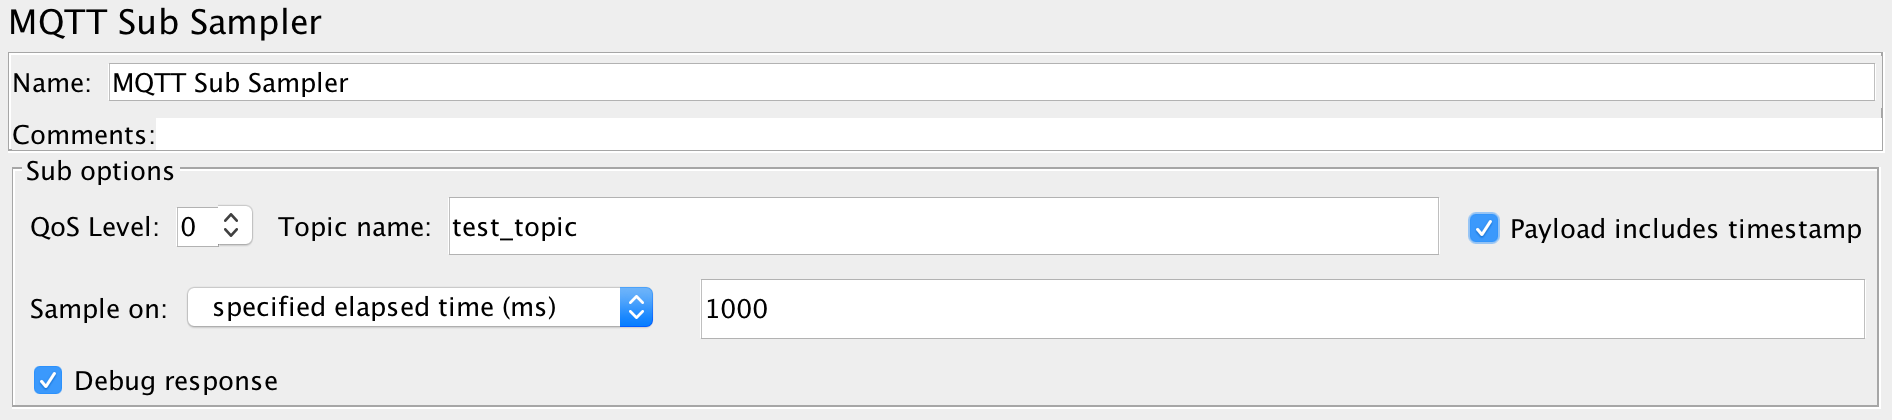
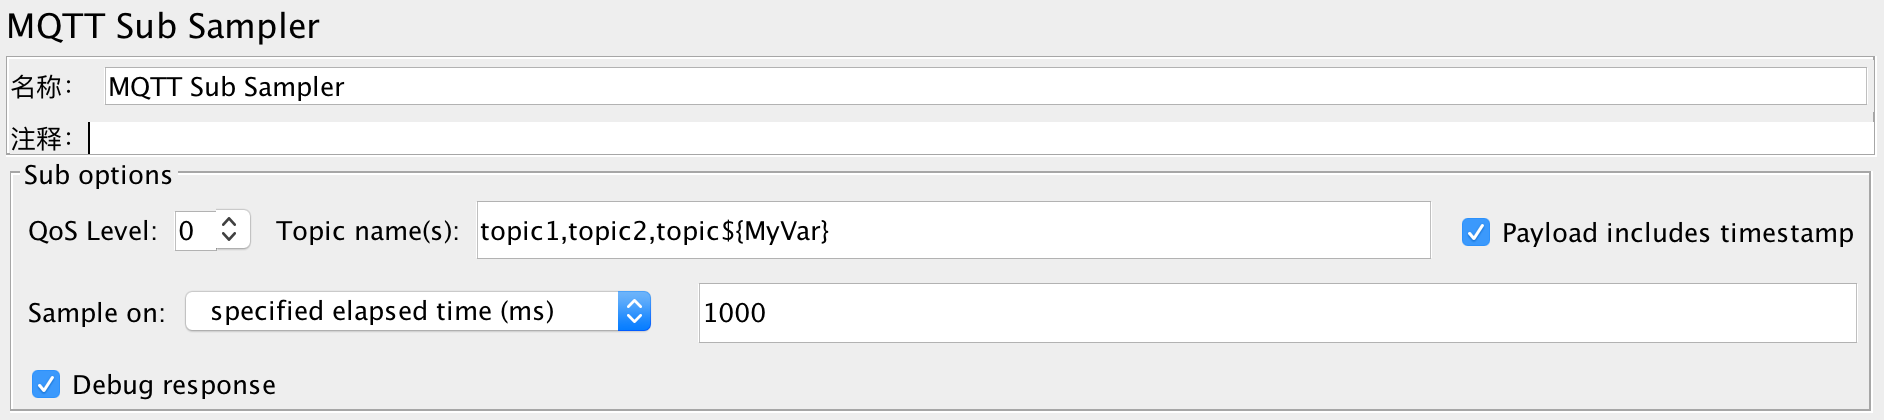
sub sampler supports topic list rather than single topic, update README.md

diff --git a/mqtt_jmeter/src/main/java/net/xmeter/gui/SubSamplerUI.java b/mqtt_jmeter/src/main/java/net/xmeter/gui/SubSamplerUI.java
@@ -27,7 +27,7 @@ public class SubSamplerUI extends AbstractSamplerGui implements Constants, Chang
 	private JLabeledChoice sampleOnCondition;
 	
 	private final JLabeledTextField sampleConditionValue = new JLabeledTextField("");
-	private final JLabeledTextField topicName = new JLabeledTextField("Topic name:");
+	private final JLabeledTextField topicNames = new JLabeledTextField("Topic name(s):");
 	
 	private JCheckBox debugResponse = new JCheckBox("Debug response");
 	private JCheckBox timestamp = new JCheckBox("Payload includes timestamp");
@@ -56,7 +56,8 @@ public class SubSamplerUI extends AbstractSamplerGui implements Constants, Chang
 
 		JPanel optsPanel1 = new HorizontalPanel();
 		optsPanel1.add(qosChoice);
-		optsPanel1.add(topicName);
+		optsPanel1.add(topicNames);
+		topicNames.setToolTipText("A list of topics to be subscribed to, comma-separated.");
 		optsPanel1.add(timestamp);
 		optsPanelCon.add(optsPanel1);
 		
@@ -98,7 +99,7 @@ public class SubSamplerUI extends AbstractSamplerGui implements Constants, Chang
 			this.qosChoice.setText(sampler.getQOS());
 		}
 		
-		this.topicName.setText(sampler.getTopics());
+		this.topicNames.setText(sampler.getTopics());
 		this.timestamp.setSelected(sampler.isAddTimestamp());
 		this.debugResponse.setSelected(sampler.isDebugResponse());
 		this.sampleOnCondition.setText(sampler.getSampleCondition());
@@ -123,7 +124,7 @@ public class SubSamplerUI extends AbstractSamplerGui implements Constants, Chang
 
 	private void setupSamplerProperties(SubSampler sampler) {
 		this.configureTestElement(sampler);
-		sampler.setTopics(this.topicName.getText());
+		sampler.setTopics(this.topicNames.getText());
 		
 		if(this.qosChoice.getText().indexOf(JMETER_VARIABLE_PREFIX) == -1) {
 			int qos = QOS_0;
@@ -156,7 +157,7 @@ public class SubSamplerUI extends AbstractSamplerGui implements Constants, Chang
 	@Override
 	public void clearGui() {
 		super.clearGui();
-		this.topicName.setText(DEFAULT_TOPIC_NAME);
+		this.topicNames.setText(DEFAULT_TOPIC_NAME);
 		this.qosChoice.setText(String.valueOf(QOS_0));
 		this.timestamp.setSelected(false);
 		this.debugResponse.setSelected(false);

diff --git a/mqtt_jmeter/src/main/java/net/xmeter/samplers/SubSampler.java b/mqtt_jmeter/src/main/java/net/xmeter/samplers/SubSampler.java
@@ -135,7 +135,7 @@ public class SubSampler extends AbstractMQTTSampler {
 		final int sampleCount = Integer.parseInt(getSampleCount());
 		final String topicsName= getTopics();
 		setListener(sampleByTime, sampleCount);
-		listenToTopics(topicsName);
+		listenToTopics(topicsName);  // TODO: run once or multiple times ?
 		
 		if (subFailed) {
 			result.sampleStart();

diff --git a/mqtt_jmeter/src/main/java/net/xmeter/samplers/PubSampler.java b/mqtt_jmeter/src/main/java/net/xmeter/samplers/PubSampler.java
@@ -170,7 +170,7 @@ public class PubSampler extends AbstractMQTTSampler {
 			result.setSuccessful(false);
 			result.setResponseMessage(MessageFormat.format("Publish failed for connection {0}.", connection));
 			result.setResponseData(ex.getMessage().getBytes());
-			result.setResponseCode("500");
+			result.setResponseCode("501");
 		}
 		return result;
 	}

diff --git a/mqtt_jmeter/src/main/java/net/xmeter/gui/PubSamplerUI.java b/mqtt_jmeter/src/main/java/net/xmeter/gui/PubSamplerUI.java
@@ -60,6 +60,7 @@ public class PubSamplerUI extends AbstractSamplerGui implements Constants, Chang
 		JPanel optsPanel = new HorizontalPanel();
 		optsPanel.add(qosChoice);
 		optsPanel.add(topicName);
+		topicName.setToolTipText("Name of topic that the message will be sent to.");
 		optsPanel.add(timestamp);
 		optsPanelCon.add(optsPanel);
 

diff --git a/README.md b/README.md
@@ -30,8 +30,7 @@ If MQTT JMeter plugin is successfully installed, you can find these MQTT sampler
 ![mqtt_jmeter_plugin](screenshots/mqtt_jmeter_plugin.png)
 
 
-## Connection sampler
-
+## Connect Sampler
 ![conn_sampler](screenshots/conn_sampler.png)
 
 ### MQTT connection
@@ -72,18 +71,19 @@ User can configure MQTT server with user name & password authentication, refer t
 
 - **Reconnect attampt max**:  The maximum number of reconnect attempts before an error is reported back to the client after a server connection had previously been established. Set to -1 to use unlimited attempts. Defaults to 0.
 
-## Pub sampler
+
+## Pub Sampler
 ![pub_sampler](screenshots/pub_sampler.png)
 
-Pub sampler reuses previously established connection (by Connect sampler) to publish a message. If connection is ready, this sampler will fail immediately.
+Pub sampler reuses previously established connection (by Connect sampler) to publish a message. If connection is not ready at this moment, pub sampler will just fail immediately.
 
 ### Pub options
 
 - **QoS level**: The available QoS value, 0 is AT_MOST_ONCE, 1 is AT_LEAST_ONCE and 2 is EXACTLY_ONCE.
 
-- **Topic name**: The topic name that the message will send to.
+- **Topic name**: Name of the topic that the message will be sent to.
 
-- **Add timestamp in payload**: Add timestamp in the payload or not. If the checkbox is enabled, then timestamp of running pub sampler will be added ahead of payload. Mostly it can be used together with **Sub sampler** to calculate message latency time.
+- **Add timestamp in payload**: Add timestamp in the payload or not. If the checkbox is enabled, then timestamp of running pub sampler will be added before real payload. Mostly it's used together with **Sub sampler** to calculate message latency time.
 
 ### Payloads
 
@@ -97,18 +97,17 @@ Pub sampler reuses previously established connection (by Connect sampler) to pub
 
 ![payload_setting](screenshots/payload_setting.png)
 
-## Sub sampler
+
+## Sub Sampler
 ![sub_sampler](screenshots/sub_sampler.png)
 
-For **MQTT connection**, **User authentication**,  **Connection options** and **MQTT version** section settings, please refer to *Connection sampler* for more detailed information.
-
-For **Share conn in thread**, please refer to the Pub sampler.
+Sub sampler reuses previously established connection (by Connect sampler) to subscribe message(s). If connection is not ready at this moment, sub sampler will just fail immediately.
 
 ### Sub options
 
 -  **QoS level**: The available QoS value, 0 is AT_MOST_ONCE, 1 is AT_LEAST_ONCE and 2 is EXACTLY_ONCE.
 
--  **Topic name**: The topic name that subscriber will subscribe to.
+-  **Topic name(s)**: A list of topic names (comma-separated) that will be subscribed to.
 
 -  **Payload includes timestamp**: If the checkbox is enabled, then it means the payload includes timestamp. It can be used to calcuate the message latency time.
 
@@ -118,9 +117,16 @@ message_latency = timestamp_in_sub_when_receive_msg - timestamp_in_payload (time
 Please notice, if the machine publish message is not the same as subscriber, then the calculated message latency time is not accurate. 
 It's because the time is almost not the same in different machines. So the latency time calculated by sub sampler could be only be a reference.
 ```
-- **Sample on**: It controls how to sample. The default value is '**elapsed with specified time(ms)**', which means a sub sampler will be occurred every ms specified in next text field (default is 1000ms). During the 1000 ms, multiple messages could be received, and result in report is the summarized data during 1000 ms. If the value is set to 2000, then means summarized report during 2000 ms. Another option is '**received number of message**', which means a sub sampler will be occurred when received number of message that specified in next text field (default is 1). 
+- **Sample on**: It controls how to sample. The default value is '**elapsed with specified time(ms)**', which means a sub sampler will  occur every specified milli-seconds (default is 1000ms). During the 1000 ms, multiple messages could be received, and result in report is the summarized data during 1000 ms. If the value is set to 2000, then means summarized report during 2000 ms. Another option is '**number of received messages**', which means a sub sampler will occur after receiving these specified number of messages (default is 1). 
 
--  **Debug response**: If it's checked, then the received message will be print in response. It's recommend to enable it when you're debugging script.
+- **Debug response**: If checked, the received message will be print in response. It's recommended to enable this option when you debug your script.
+
+
+## DisConnect Sampler
+![disconn_sampler](screenshots/disconn_sampler.png)
+
+This sampler is very simple, it just clear the previous created connection. Therefore, next time you run Connect sampler, it will initiate a new MQTT server connection for you. As you can imagine, Disconnect sample will fail immediately if no connection is detected at this moment.
+
 
 ## Certification files for SSL/TLS connections
 After deploying emqtt server, you get the following OOTB (out of the box) SSL/TLS certification files under ${EMQTTD_HOME}/etc/certs directory:
@@ -150,3 +156,4 @@ openssl pkcs12 -export -inkey client-key.pem -in client-cert.pem -out client.p12
 #### Specify key store, client certfication and corresponding pass phrases in plugin sampler:
 
 ![ssl_conn](screenshots/ssl_conn.png)
+
